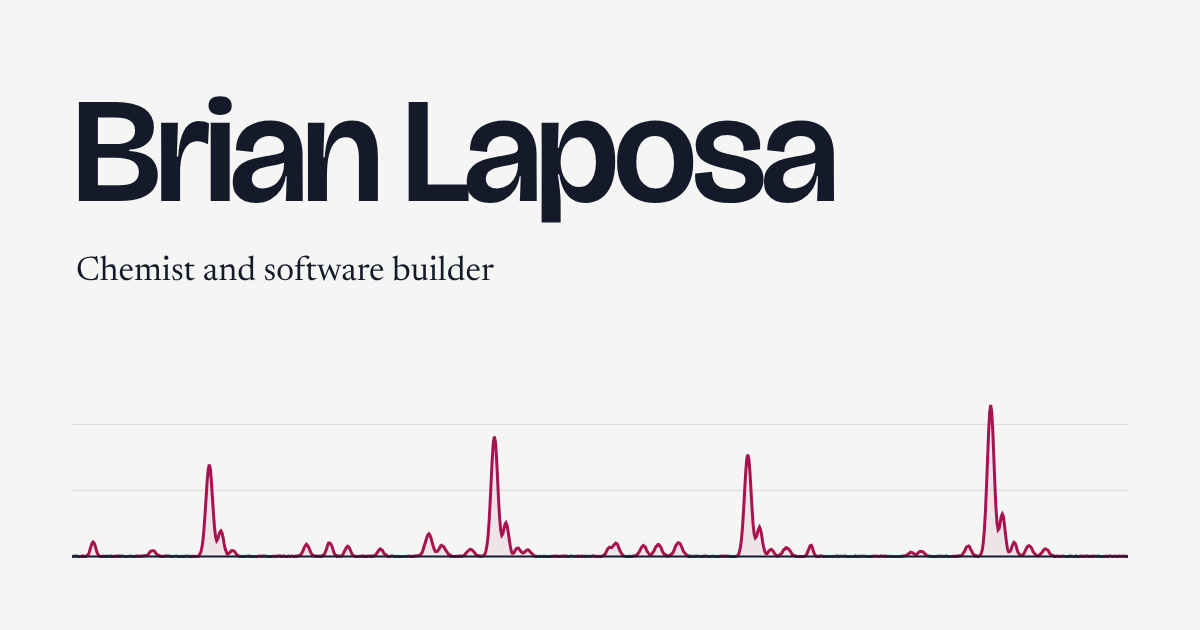
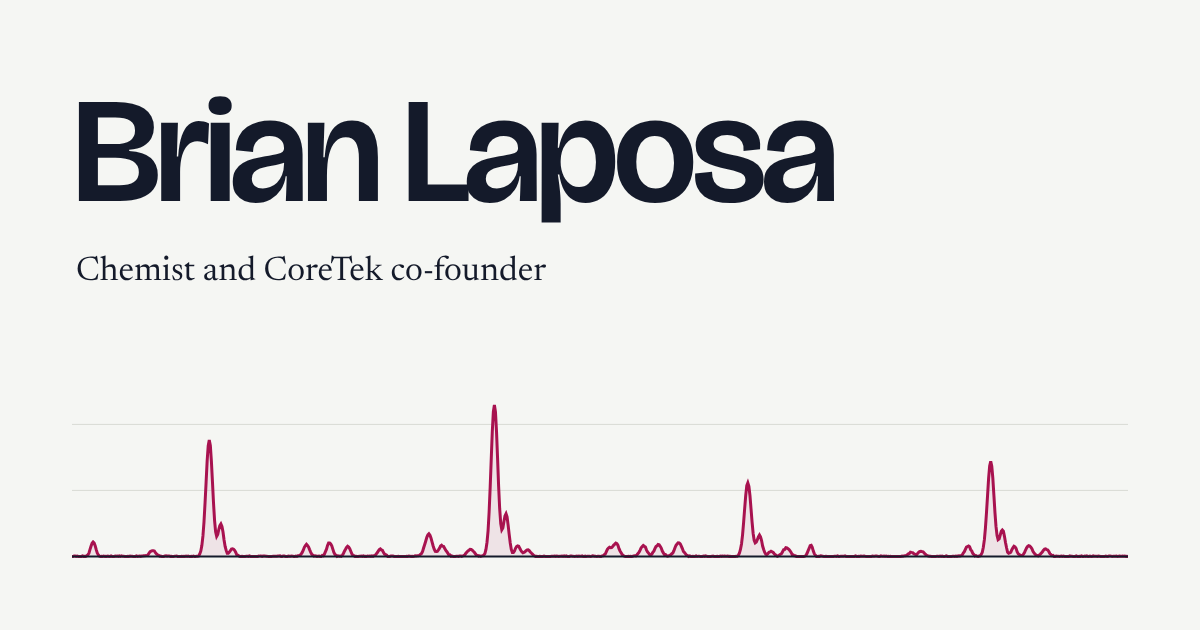
Reframe copy as a chemist's profile with programming as a hobby
Hero, spectrum labels, work intro, about, contact, and meta tags now lead
with chemistry and CoreTek; software projects are presented as personal,
self-taught work. Regenerated the share image to match.

Claude-Session: https://claude.ai/code/session_01GS63FmRnowELJZ8Mo2ZqKN

diff --git a/client/index.html b/client/index.html
@@ -3,10 +3,10 @@
   <head>
     <meta charset="UTF-8" />
     <meta name="viewport" content="width=device-width, initial-scale=1" />
-    <title>Brian Laposa — Chemist and software builder</title>
+    <title>Brian Laposa — Chemist and CoreTek co-founder</title>
     <meta
       name="description"
-      content="Brian Laposa is an analytical chemist who builds software: mass spectrometry research, composite paddle engineering at CoreTek, generative AI apps, and open-source tools for AI coding agents."
+      content="Brian Laposa is an analytical chemist and co-founder of CoreTek Paddles. He has published mass spectrometry research and builds small software projects as a hobby."
     />
     <meta name="author" content="Brian Laposa" />
     <meta name="theme-color" content="#f5f6f3" />
@@ -15,10 +15,10 @@
     <!-- Open Graph -->
     <meta property="og:type" content="website" />
     <meta property="og:site_name" content="Brian Laposa" />
-    <meta property="og:title" content="Brian Laposa — Chemist and software builder" />
+    <meta property="og:title" content="Brian Laposa — Chemist and CoreTek co-founder" />
     <meta
       property="og:description"
-      content="Mass spectrometry research, composite materials, generative AI apps, and open-source tools for AI coding agents."
+      content="Analytical chemist, co-founder of CoreTek Paddles, and hobbyist programmer."
     />
     <meta property="og:url" content="https://brian-laposa-portfolio.vercel.app/" />
     <meta property="og:image" content="https://brian-laposa-portfolio.vercel.app/og.png" />
@@ -28,10 +28,10 @@
 
     <!-- Twitter -->
     <meta name="twitter:card" content="summary_large_image" />
-    <meta name="twitter:title" content="Brian Laposa — Chemist and software builder" />
+    <meta name="twitter:title" content="Brian Laposa — Chemist and CoreTek co-founder" />
     <meta
       name="twitter:description"
-      content="Mass spectrometry research, composite materials, generative AI apps, and open-source tools for AI coding agents."
+      content="Analytical chemist, co-founder of CoreTek Paddles, and hobbyist programmer."
     />
     <meta name="twitter:image" content="https://brian-laposa-portfolio.vercel.app/og.png" />
 
@@ -50,7 +50,7 @@
           "https://dev.to/brianbot",
           "https://g.dev/brianlaposa"
         ],
-        "knowsAbout": ["Analytical chemistry", "Mass spectrometry", "Materials science", "Generative AI", "Agentic software development"]
+        "knowsAbout": ["Analytical chemistry", "Mass spectrometry", "Materials science", "Product development"]
       }
     </script>
   </head>
@@ -58,7 +58,7 @@
   <body>
     <noscript>
       <p style="font-family: sans-serif; padding: 2rem">
-        Brian Laposa — chemist and software builder. Email
+        Brian Laposa — chemist and CoreTek co-founder. Email
         <a href="mailto:redstarapp@proton.me">redstarapp@proton.me</a>.
       </p>
     </noscript>

diff --git a/client/src/content.ts b/client/src/content.ts
@@ -51,7 +51,7 @@ export const tools: Project[] = [
   {
     title: "Vercel EZSlack",
     description:
-      "A serverless Slack agent on Gemini and Vercel, with tool orchestration, approval flows for risky actions, and a live dashboard.",
+      "A Slack bot that runs on Vercel and answers with Gemini. It can call tools, asks for approval before risky actions, and has a small dashboard.",
     stack: ["Gemini", "Express", "Vercel"],
     url: "https://github.com/Brian125bot/vercel_ezslack",
     linkLabel: "View source",
@@ -59,7 +59,7 @@ export const tools: Project[] = [
   {
     title: "AI Smart Fill",
     description:
-      "A Chrome extension that batch-fills online forms with Gemini, using context you provide.",
+      "A Chrome extension that uses Gemini to fill in online forms from notes you give it.",
     stack: ["Gemini", "Chrome extension"],
     url: "https://github.com/Brian125bot/ai_smart_fill",
     linkLabel: "View source",
@@ -67,7 +67,7 @@ export const tools: Project[] = [
   {
     title: "RepoPilot",
     description:
-      "A control plane for launching and supervising Google Jules coding-agent sessions across repositories.",
+      "A dashboard for starting and keeping an eye on Google Jules coding-assistant sessions.",
     stack: ["Next.js", "Jules", "GitHub"],
     url: "https://github.com/Brian125bot/repopilot",
     linkLabel: "View source",
@@ -75,7 +75,7 @@ export const tools: Project[] = [
   {
     title: "RepoLM",
     description:
-      "A multimedia notebook for exploring public and private GitHub repositories.",
+      "A notebook for exploring GitHub repositories with notes, audio, and images.",
     stack: ["AI notebook", "GitHub"],
     url: "https://github.com/Brian125bot",
     linkLabel: "View on GitHub",
@@ -113,15 +113,19 @@ export const disciplines = [
       "Mass spectrometry",
       "Materials science",
       "Signal processing",
-      "Patent development",
     ],
   },
   {
-    area: "AI",
-    items: ["Agentic development", "Generative AI", "Applied machine learning"],
+    area: "Business",
+    items: ["Product development", "Patent development", "E-commerce"],
   },
   {
-    area: "Engineering",
-    items: ["TypeScript", "Next.js", "Astro", "HTML and CSS", "Cloud infrastructure"],
+    area: "On the side",
+    items: [
+      "Programming, self-taught",
+      "TypeScript and Next.js",
+      "HTML and CSS",
+      "AI coding assistants",
+    ],
   },
 ];

diff --git a/client/src/components/sections/Projects.tsx b/client/src/components/sections/Projects.tsx
@@ -57,10 +57,11 @@ export default function Projects() {
     <section id="work" className="section-pad border-t border-rule">
       <div className="wrap">
         <div className="grid gap-6 md:grid-cols-12 md:items-end">
-          <h2 className="h2 md:col-span-7">Selected work</h2>
+          <h2 className="h2 md:col-span-7">Work and projects</h2>
           <p className="prose-serif text-graphite md:col-span-5">
-            A paddle company grounded in materials science, a few generative AI
-            apps, and open-source tools for working alongside coding agents.
+            CoreTek is my business. Everything after it is a personal project:
+            things I build in my spare time to learn how software and AI tools
+            work.
           </p>
         </div>
 
@@ -70,7 +71,7 @@ export default function Projects() {
         >
           <div className="flex flex-col justify-between gap-10 p-7 sm:p-10 md:col-span-6 md:p-12">
             <div>
-              <p className="text-[0.9375rem] font-medium text-endpoint">Featured venture</p>
+              <p className="text-[0.9375rem] font-medium text-endpoint">Co-founder</p>
               <h3
                 className="mt-3 font-semibold tracking-[-0.035em]"
                 style={{ fontSize: "var(--text-h2)", lineHeight: 1 }}
@@ -99,14 +100,14 @@ export default function Projects() {
 
         <ProjectIndex
           id="apps"
-          heading="Live web apps"
-          note="Generative AI, shipped and public."
+          heading="Web apps"
+          note="Small AI experiments, free to try."
           items={liveApps}
         />
         <ProjectIndex
           id="tools"
-          heading="Open-source tools"
-          note="Agents, automation, and the guardrails around them."
+          heading="Coding projects"
+          note="Hobby tools, with the source on GitHub."
           items={tools}
         />
       </div>

diff --git a/client/src/components/sections/About.tsx b/client/src/components/sections/About.tsx
@@ -9,15 +9,16 @@ export default function About() {
         <div className="md:col-span-8">
           <div className="prose-serif max-w-[40rem]" style={{ fontSize: "var(--text-lede)", lineHeight: 1.5 }}>
             <p>
-              I trained as a chemist, and I still work like one: state the
-              hypothesis, control the variables, measure, and write down what
-              actually happened. That habit transfers cleanly to software.
+              I&rsquo;m a chemist. My training is in analytical chemistry, and
+              the habits stuck: state the hypothesis, control the variables,
+              measure, and write down what actually happened.
             </p>
             <p>
-              My work runs from materials engineering for sports equipment to
-              generative AI apps and acoustic analysis tools. Most of it now is
-              agentic tooling, software that lets AI coding agents do real work
-              while a person stays in the loop to review it.
+              That has taken me from mass spectrometry research to materials
+              engineering at CoreTek, where we design composite pickleball
+              paddles. Programming is a hobby. I&rsquo;m self-taught, I lean on
+              AI coding assistants, and I use small projects to learn what
+              these tools can do and where they fall short.
             </p>
           </div>
 

diff --git a/client/src/components/Spectrum.tsx b/client/src/components/Spectrum.tsx
@@ -18,30 +18,30 @@ type Peak = {
 const PEAKS: Peak[] = [
   {
     x: 0.13,
-    h: 0.52,
+    h: 0.66,
     label: "Mass spectrometry",
     meta: "Analytical Chemistry, 2015",
     href: "#research",
   },
   {
     x: 0.4,
-    h: 0.68,
+    h: 0.86,
     label: "Composite materials",
-    meta: "CoreTek Paddles",
+    meta: "CoreTek, co-founder",
     href: "#coretek",
   },
   {
     x: 0.64,
-    h: 0.58,
-    label: "Generative AI",
-    meta: "Live web apps",
+    h: 0.42,
+    label: "Web apps",
+    meta: "AI experiments",
     href: "#apps",
   },
   {
     x: 0.87,
-    h: 0.86,
-    label: "Agentic tools",
-    meta: "Open-source, ongoing",
+    h: 0.54,
+    label: "Coding projects",
+    meta: "A hobby, ongoing",
     href: "#tools",
   },
 ];
@@ -95,8 +95,8 @@ export default function Spectrum({ animate = true }: { animate?: boolean }) {
     <figure className="spectrum" data-animate={animate}>
       <figcaption className="sr-only">
         A mass spectrum used as a timeline of Brian's work, from 2015 to now.
-        Peaks mark mass spectrometry research, composite materials, generative
-        AI apps, and agentic developer tools.
+        Peaks mark mass spectrometry research, composite materials at CoreTek,
+        and hobby software projects.
       </figcaption>
 
       <div className="spectrum-plot">

diff --git a/client/src/components/sections/Hero.tsx b/client/src/components/sections/Hero.tsx
@@ -17,9 +17,10 @@ export default function Hero() {
             className="font-serif text-ink md:col-span-7"
             style={{ fontSize: "var(--text-lede)", lineHeight: 1.42 }}
           >
-            Analytical chemist turned software builder. I&rsquo;ve published
-            mass spectrometry research, co-founded a composite paddle company,
-            and now build AI agents and the tools that keep them in check.
+            Chemist by training. I&rsquo;ve published mass spectrometry
+            research and co-founded CoreTek, a composite pickleball paddle
+            company. In my spare time I tinker with software, mostly small
+            experiments with AI.
           </p>
 
           <div className="flex flex-wrap items-center gap-x-6 gap-y-4 md:col-span-5 md:justify-end">
@@ -27,7 +28,7 @@ export default function Hero() {
               href="#work"
               className="inline-flex h-12 items-center rounded-md bg-ink px-6 text-[0.9375rem] font-medium text-paper transition-colors duration-200 hover:bg-endpoint"
             >
-              See selected work
+              See work and projects
             </a>
             <a href={`mailto:${EMAIL}`} className="text-link text-[0.9375rem] font-medium">
               Email Brian

diff --git a/client/src/components/sections/Contact.tsx b/client/src/components/sections/Contact.tsx
@@ -27,8 +27,8 @@ export default function Contact() {
           <div className="md:col-span-8">
             <h2 className="h2 text-paper">Get in touch</h2>
             <p className="mt-6 max-w-[34rem] font-serif text-[1.25rem] leading-relaxed text-paper/75">
-              For collaborations, contract work, or questions about any of the
-              projects, email is the fastest way to reach me.
+              Whether it&rsquo;s chemistry, CoreTek, or one of the projects on
+              this page, email is the best way to reach me.
             </p>
 
             <div className="mt-12 flex flex-wrap items-center gap-x-6 gap-y-5">
